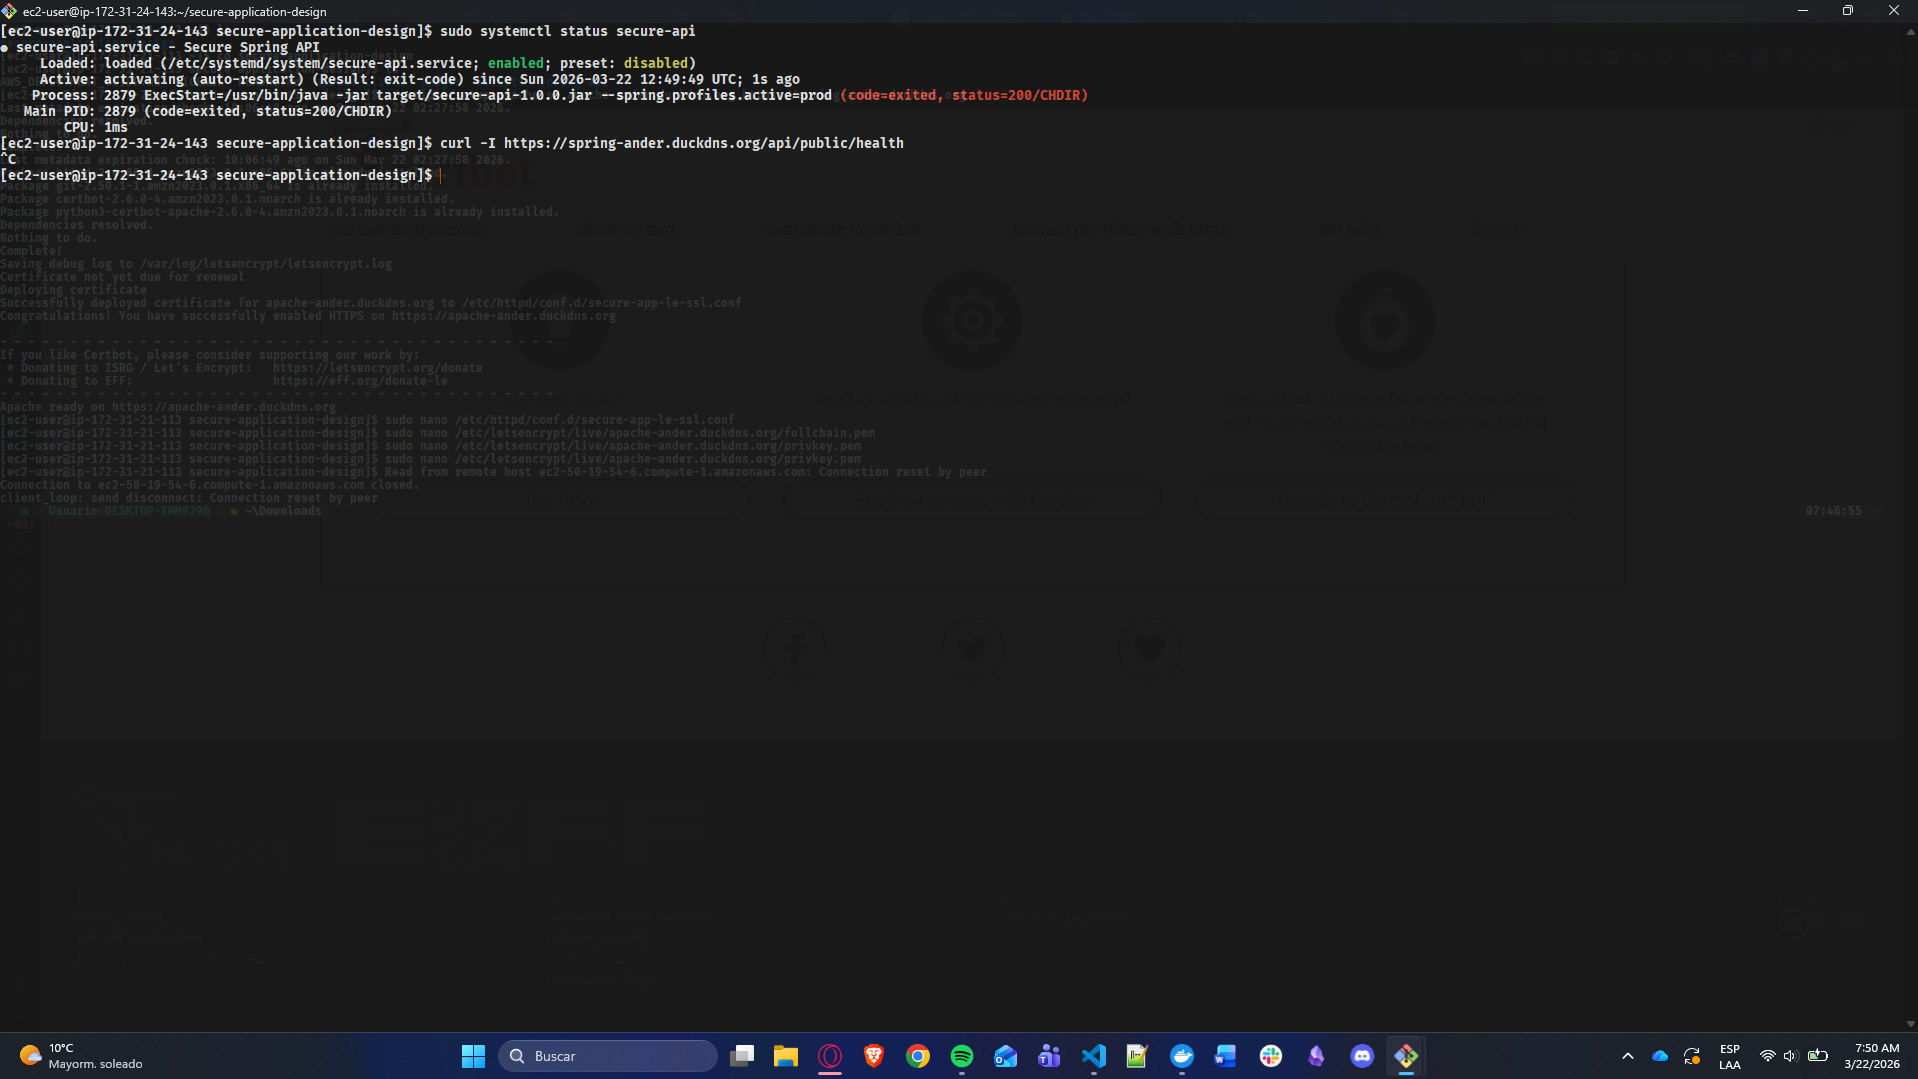
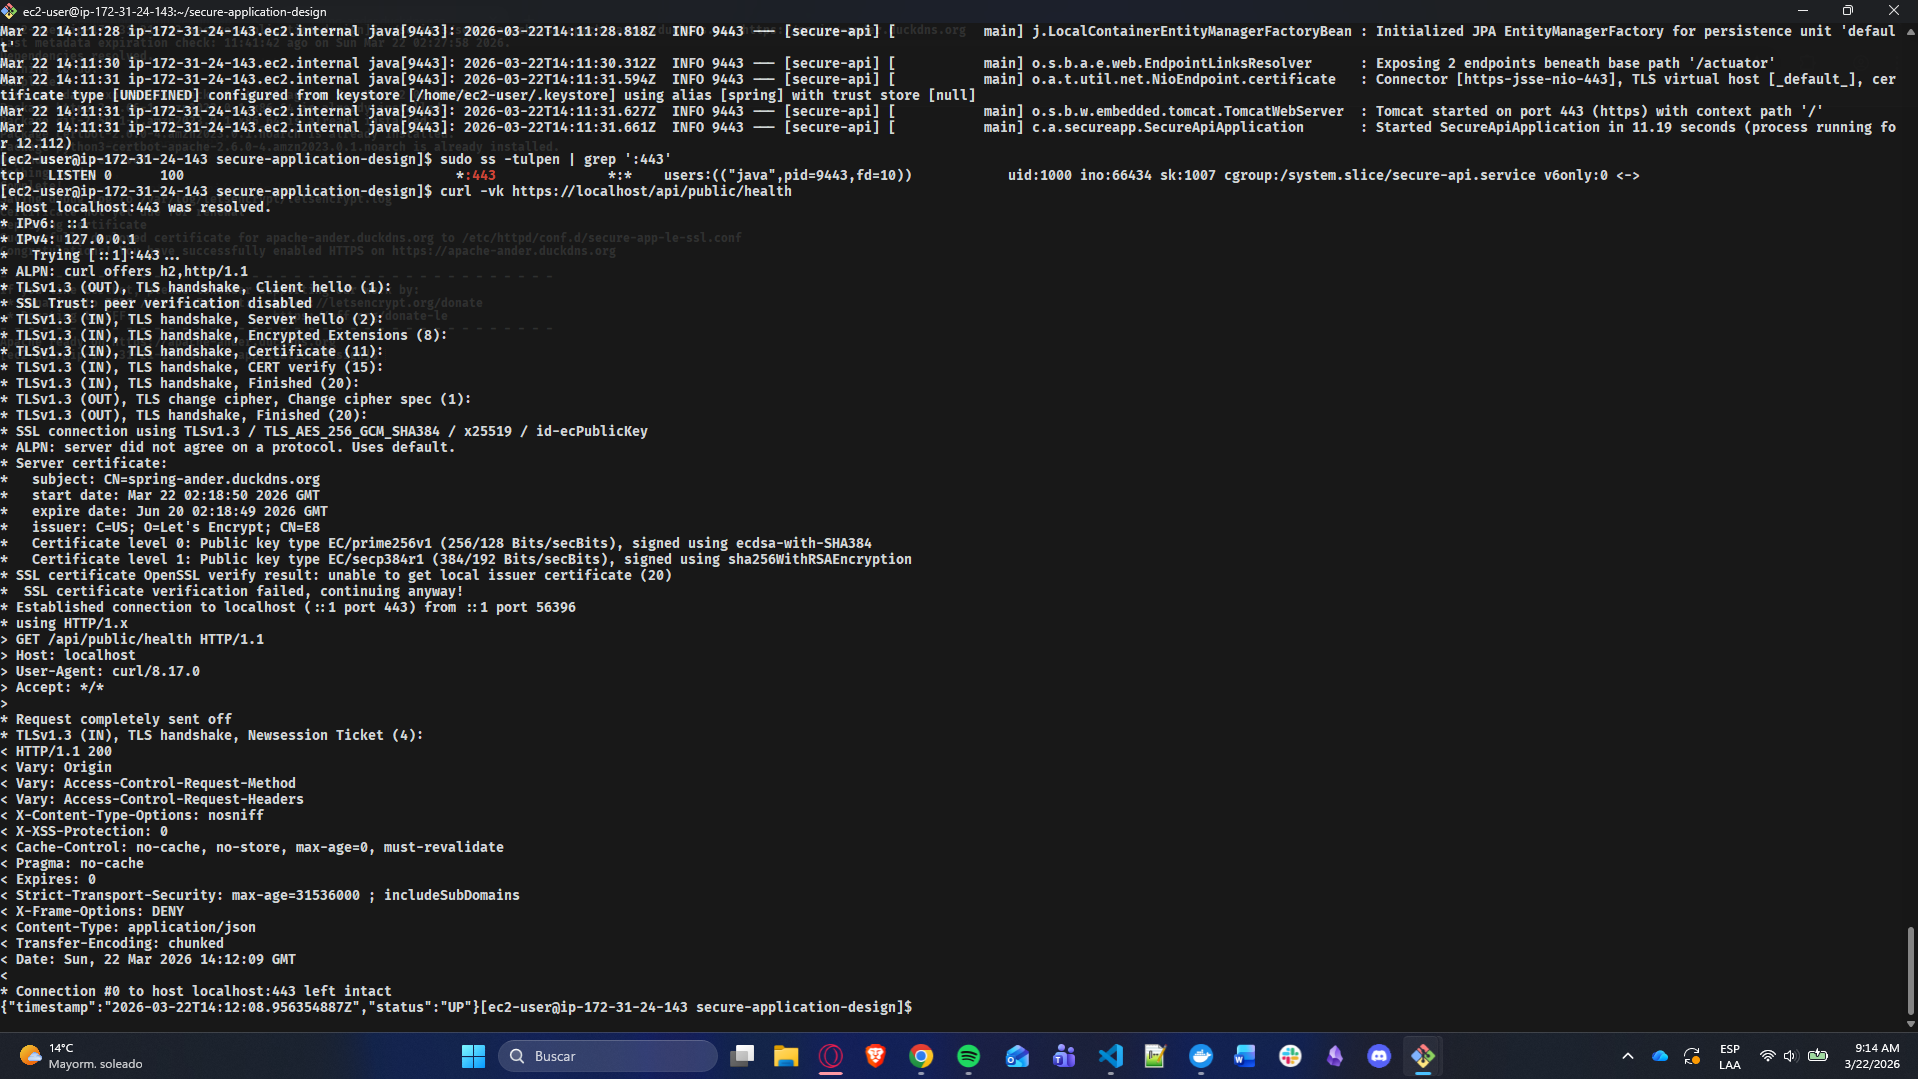
chore: add new images and accept config origin

Changed region(s): [[0.0, 0.0, 0.9844, 1.0], [0.5229, 0.1529, 0.8306, 0.1835], [0.9844, 0.8563, 1.0, 0.9481]]

diff --git a/spring-api/src/main/java/com/anderssonprogramming/secureapp/security/SecurityConfig.java b/spring-api/src/main/java/com/anderssonprogramming/secureapp/security/SecurityConfig.java
@@ -35,7 +35,7 @@ public class SecurityConfig {
                 .cors(Customizer.withDefaults())
                 .sessionManagement(session -> session.sessionCreationPolicy(SessionCreationPolicy.STATELESS))
                 .authorizeHttpRequests(auth -> auth
-                        .requestMatchers("/api/auth/**", "/actuator/health", "/api/public/**").permitAll()
+                    .requestMatchers("/", "/error", "/api/auth/**", "/actuator/health", "/api/public/**").permitAll()
                         .anyRequest().authenticated())
                 .addFilterBefore(tokenAuthenticationFilter, UsernamePasswordAuthenticationFilter.class);
 

diff --git a/spring-api/src/main/java/com/anderssonprogramming/secureapp/controller/RootController.java b/spring-api/src/main/java/com/anderssonprogramming/secureapp/controller/RootController.java
@@ -1,0 +1,21 @@
+package com.anderssonprogramming.secureapp.controller;
+
+import org.springframework.web.bind.annotation.GetMapping;
+import org.springframework.web.bind.annotation.RestController;
+
+import java.time.Instant;
+import java.util.Map;
+
+@RestController
+public class RootController {
+
+    @GetMapping("/")
+    public Map<String, Object> index() {
+        return Map.of(
+                "service", "Secure Spring API",
+                "status", "UP",
+                "timestamp", Instant.now().toString(),
+                "publicHealthEndpoint", "/api/public/health"
+        );
+    }
+}

diff --git a/AWS_DEPLOYMENT_GUIDE.md b/AWS_DEPLOYMENT_GUIDE.md
@@ -142,6 +142,30 @@ Exact renewal command for DuckDNS:
 11. Login success
 12. Login failure
 13. BCrypt hash stored in DB
-14. Protected endpoint with token
-15. Protected endpoint without token
-16. Test suite passing
+14. Protected endpoint
+15. Test suite passing
+
+## 7) Troubleshooting: ERR_CONNECTION_REFUSED
+
+If the browser shows `ERR_CONNECTION_REFUSED` for `https://spring-ander.duckdns.org/api/...`, run this checklist on the Spring server:
+
+```bash
+sudo systemctl status secure-api --no-pager
+sudo journalctl -u secure-api -n 120 --no-pager
+sudo ss -tulpen | grep ':443'
+curl -vk https://localhost/api/public/health
+```
+
+Then verify network and DNS from your local machine:
+
+```bash
+nslookup spring-ander.duckdns.org
+curl -vk https://spring-ander.duckdns.org/api/public/health
+```
+
+Most common causes:
+
+1. `secure-api` is down due to Java runtime startup issues from file capabilities on the Java binary. Current script uses systemd capability settings instead.
+2. Spring Security Group does not allow inbound `443/tcp`.
+3. DuckDNS A record points to a different IP than the Spring instance.
+4. Service was created before fix; rerun setup script once to regenerate the systemd unit.

diff --git a/README.md b/README.md
@@ -115,8 +115,7 @@ All screenshots will be stored in [images](images).
 | Login success | images/auth-02-login-success.png |
 | Login failure | images/auth-03-login-failed.png |
 | BCrypt hash proof | images/auth-04-db-password-hash.png |
-| Protected endpoint with token | images/api-01-protected-with-token.png |
-| Protected endpoint without token | images/api-02-protected-without-token.png |
+| Protected endpoint | images/api-01-protected-with-token.png |
 | Test suite passing | images/ci-01-tests-passing.png |
 
 ### Gallery Placeholders
